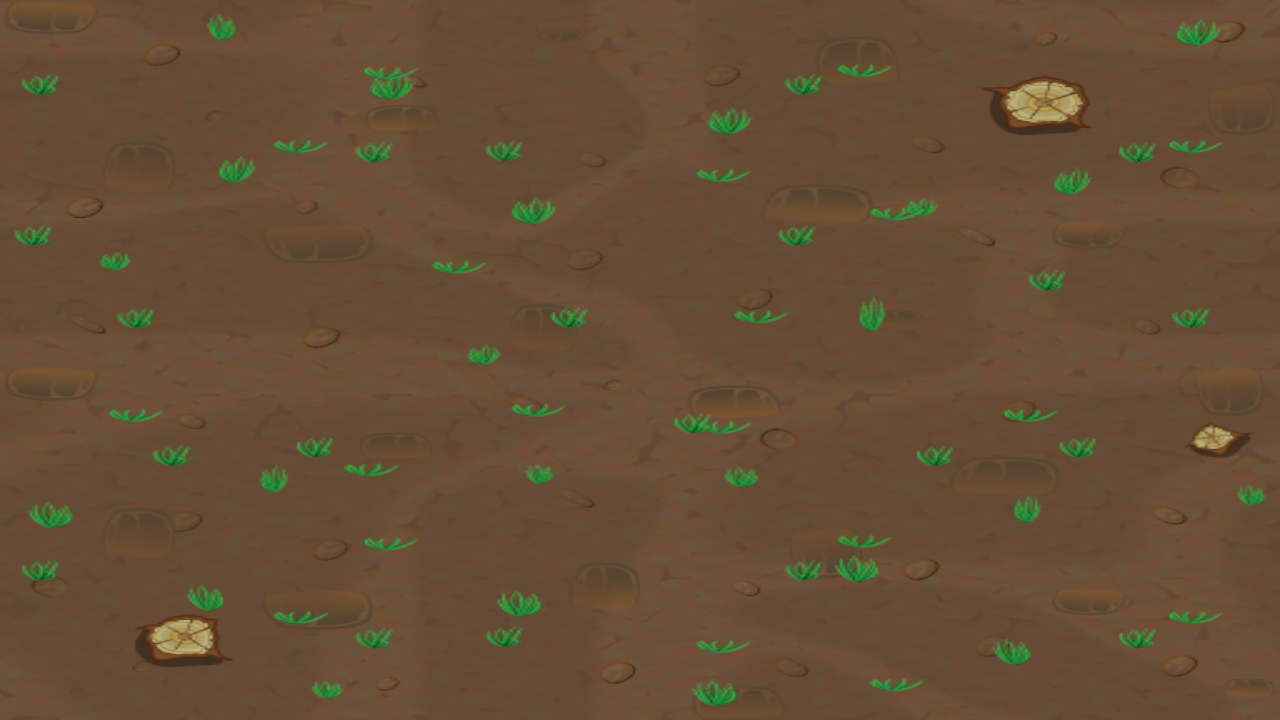
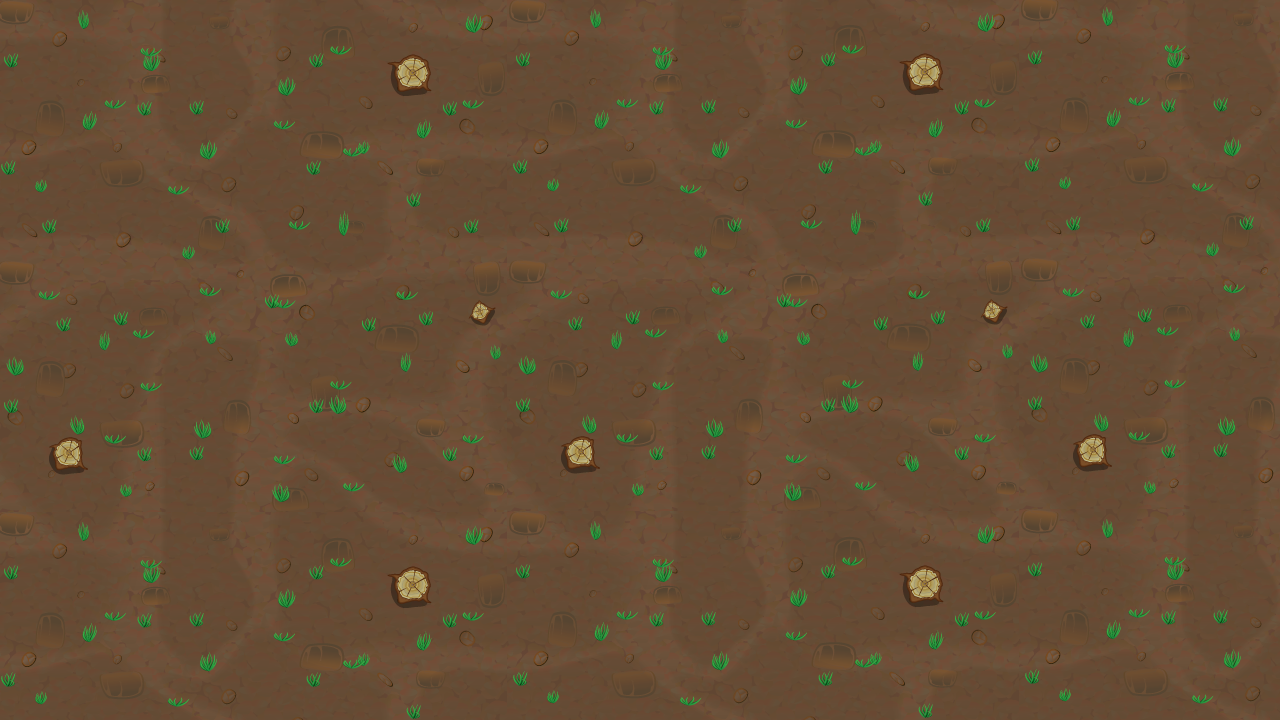
Update: TEXTURES

diff --git a/final/RanceXStreet/settings.py b/final/RanceXStreet/settings.py
@@ -34,7 +34,6 @@ TEXTURES = {
     "road_0_left": pygame.image.load(BASE_DIR / "graphics" / "object" / "road_0_left.png"),
     "road_0_right": pygame.image.load(BASE_DIR / "graphics" / "object" / "road_0_right.png"),
     "Soil_Tile": pygame.image.load(BASE_DIR / "graphics" / "object" / "Soil_Tile.png"),
-    "grass": pygame.image.load(BASE_DIR / "graphics" / "object" / "grass.png"),
     "background": pygame.image.load(BASE_DIR / "graphics" / "background.png"),
     "startstate": pygame.image.load(BASE_DIR / "graphics" / "startstate.png"),
     "car1": pygame.image.load(BASE_DIR / "graphics" / "vehicle" / "Audi.png"),

diff --git a/final/RanceXStreet/src/Rancexstreet.py b/final/RanceXStreet/src/Rancexstreet.py
@@ -27,7 +27,7 @@ class Rancexstreet(Game):
         self.state_machine.update(dt)
 
     def render(self, surface: pygame.Surface) -> None:
-        surface.blit(settings.TEXTURES["Soil_Tile"],[0, 0])
+        #surface.blit(settings.TEXTURES["Soil_Tile"],[0, 0])
         self.state_machine.render(surface)
 
     def on_input(self, input_id: str, input_data: InputData) -> None:

diff --git a/final/RanceXStreet/src/states/PlayState.py b/final/RanceXStreet/src/states/PlayState.py
@@ -21,7 +21,7 @@ class PlayState(BaseState):
 
     def update(self, dt: float) -> None:
         self.yRelativa = self.displayY % settings.VIRTUAL_HEIGHT
-        self.displayY += 15  
+        self.displayY += 30  
 
         self.player.update(dt)
 
